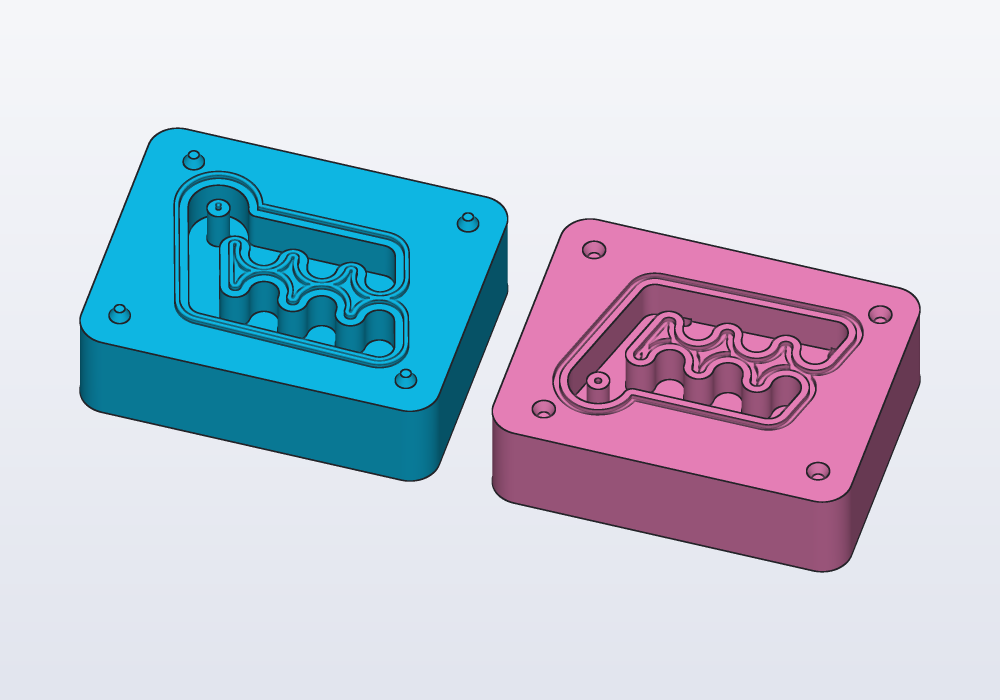
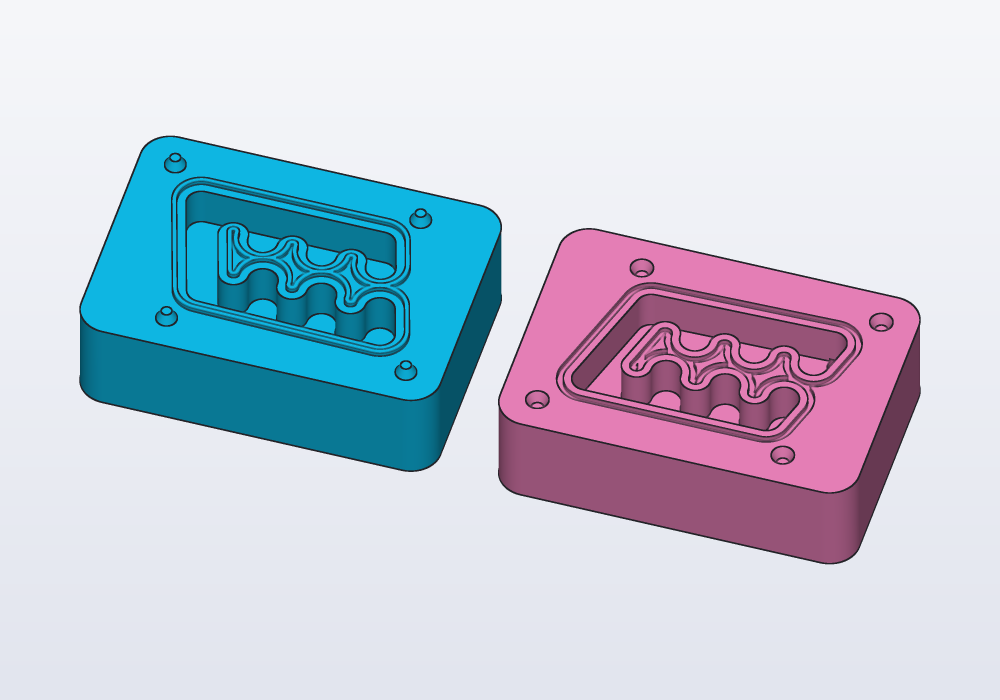
The mold guide casts Carlo without its eye

Changed region(s): [[0.062, 0.18, 0.93, 0.84], [0.062, 0.54, 0.434, 0.69], [0.093, 0.3, 0.124, 0.39]]

diff --git a/docs/guides/molds.md b/docs/guides/molds.md
@@ -4,13 +4,14 @@ A two-part mold to cast copies of a part in silicone, resin or plaster: a block 
 
 <!-- render: molds-open --from 0.3,-1,1.2 -->
 ```d
-// a mold to cast Carlo in silicone, open: the lower half
-// with its keys and the seal, the upper one turned over
+// a mold to cast Carlo in silicone (without its eye, a
+// thin core that would tear the cast), open: the lower
+// half with its keys and the seal, the upper turned over
 
 import carlo;
 import molds;
 
-Mold carloMold() => mold(carlo(),
+Mold carloMold() => mold(carlo(eye: false),
     plane(origin: vec(0.mm, 0.mm, 7.5.mm), normal: Z));
 
 @part("Sky Pop")
@@ -44,7 +45,7 @@ Each half prints on its outer face, the parting face up: the keys and the seal s
 import carlo;
 import molds;
 
-Mold carloMold() => mold(carlo(),
+Mold carloMold() => mold(carlo(eye: false),
     plane(origin: vec(0.mm, 0.mm, 7.5.mm), normal: Z));
 
 @part("Sky Pop")

diff --git a/docs/AGENTS.md b/docs/AGENTS.md
@@ -12,12 +12,12 @@ reference first and follow the rules below.
 
 ## Setup and updates
 
-This text was made by hcad 0.3.1 (docs stamp `0.3.1-9ba5b9c7`). Before the first
+This text was made by hcad 0.3.1 (docs stamp `0.3.1-60e7b293`). Before the first
 model of a session, run `hcad docs --stamp` (`hcad` may be a full path, or the
 AppImage followed by the word `hcad`; with the MCP server, hcad_docs with
 format stamp):
 
-- **It prints `0.3.1-9ba5b9c7`:** this text is up to date.
+- **It prints `0.3.1-60e7b293`:** this text is up to date.
 - **It prints something else:** hackerscad was updated and this text is
   older or newer than it. Installed as a skill, refresh it in place:
   `hcad docs --skill` into this SKILL.md, `hcad docs` into the llms-full.txt

diff --git a/docs/SKILL.md b/docs/SKILL.md
@@ -17,12 +17,12 @@ reference first and follow the rules below.
 
 ## Setup and updates
 
-This text was made by hcad 0.3.1 (docs stamp `0.3.1-9ba5b9c7`). Before the first
+This text was made by hcad 0.3.1 (docs stamp `0.3.1-60e7b293`). Before the first
 model of a session, run `hcad docs --stamp` (`hcad` may be a full path, or the
 AppImage followed by the word `hcad`; with the MCP server, hcad_docs with
 format stamp):
 
-- **It prints `0.3.1-9ba5b9c7`:** this text is up to date.
+- **It prints `0.3.1-60e7b293`:** this text is up to date.
 - **It prints something else:** hackerscad was updated and this text is
   older or newer than it. Installed as a skill, refresh it in place:
   `hcad docs --skill` into this SKILL.md, `hcad docs` into the llms-full.txt
